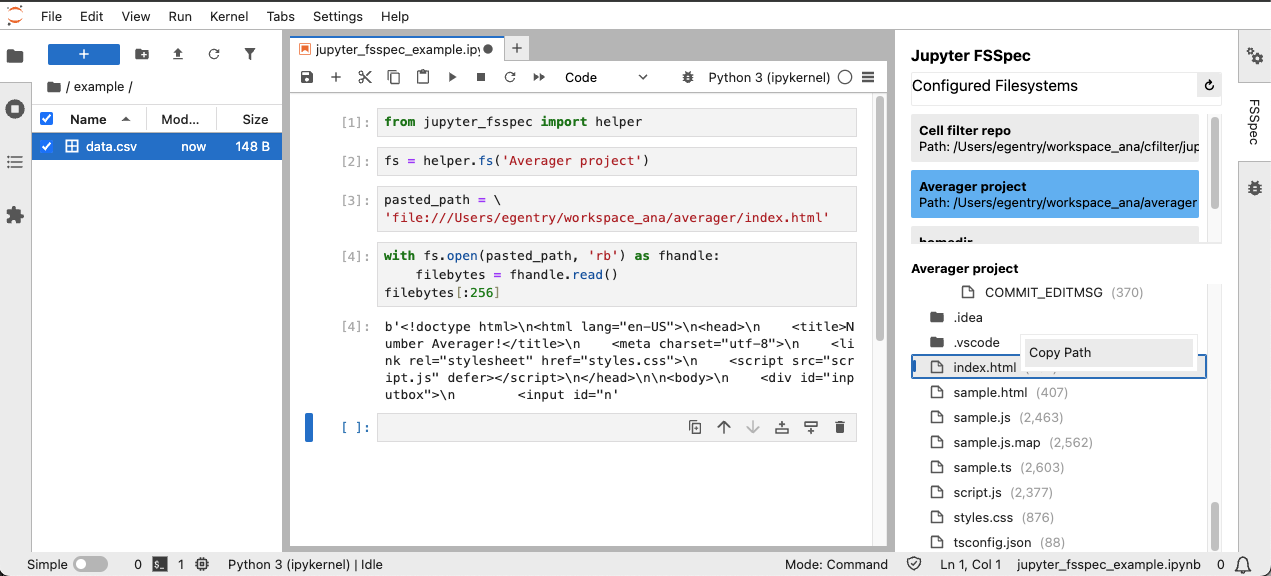
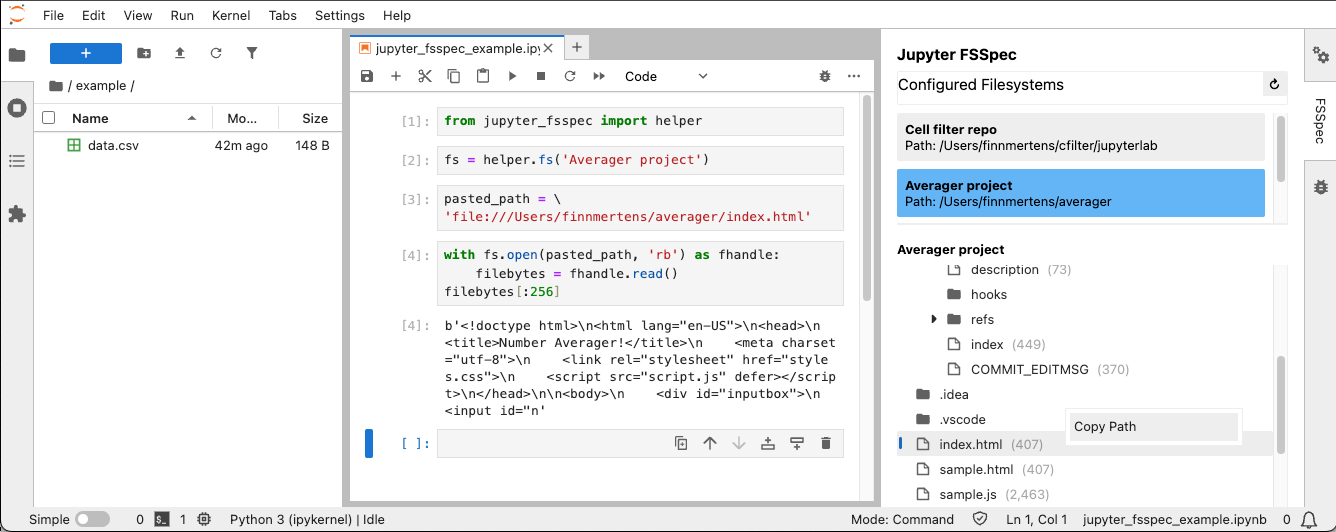
Refine docs.

diff --git a/docs/source/index.md b/docs/source/index.md
@@ -2,7 +2,7 @@
 
 ![Jupyter FSSpec inside JupyterLab](_static/extension_example_1.png "Jupyter FSSpec inside JupyterLab")
 
-> 📘 Note: This project is in a pre-release state, in active development. Expect instability.
+> 📘 **Note:** This project is in a pre-release state, in active development. Expect instability.
 
 Welcome to the `jupyter_fsspec` documentation, the JupyterLab (!) extension for the `fsspec` Python library.
 
@@ -37,10 +37,10 @@ inside a file named `~/.jupyter/jupyter-fsspec.yaml`. Here's a sample file:
 ```
 sources:
   - name: "Cell filter repo"
-    path: "/Users/egentry/workspace_ana/cfilter"
+    path: "/Users/finnmertens/cfilter/jupyterlab"
     type: "file"
   - name: "Averager project"
-    path: "file:///Users/egentry/workspace_ana/averager"
+    path: "file:///Users/finnmertens/averager"
 ```
 
 The config file has a list of sources, where each item needs a name and a path. The name
@@ -49,6 +49,27 @@ is a unique identifier, so don't use duplicate names.
 You can also optionally specify a type
 (which is the type of `fsspec` filesystem should construct). If you prefer you can omit the
 `type` argument and include the protocol in the path instead (like in the second entry).
+
+Basic navigation works as you'd expect: Click to expand/collapse folders, and right click for
+context options (such as copying the path of the current file to the clipboard).
+
+## The `helper` module
+
+You can import the `jupyter_fsspec.helper` module into your notebooks to interact with
+filesystems defined in your config file:
+
+```
+# Import the helper module directly
+from jupyter_fsspec import helper
+
+# Get an fsspec filesystem using the config name
+# (and use it as you would any fsspec filesystem)
+fs = helper.filesystem('Averager project')
+
+with fs.open('/My/file/path', 'rb') as fhandle:
+    filebytes = fhandle.read()
+filebytes[:256]
+```
 
 <!-- 
 TODO populate this
